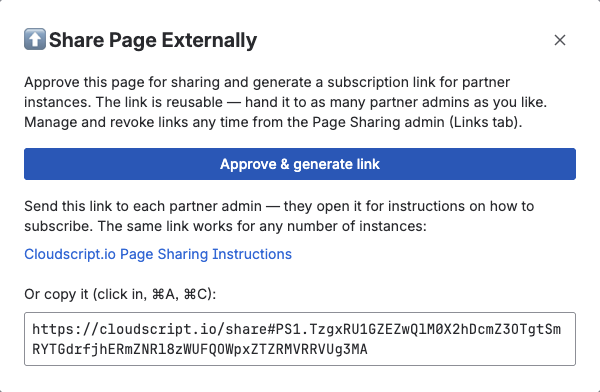
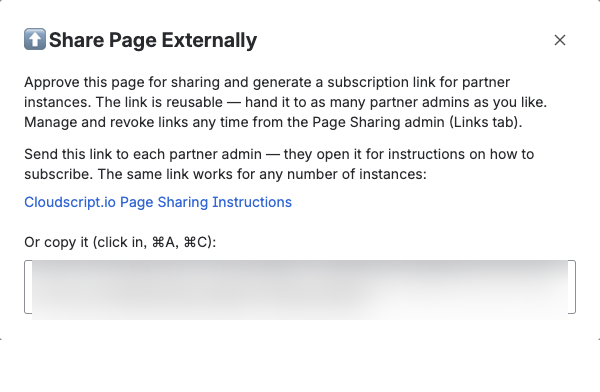
favico

Changed region(s): [[0.03, 0.4898, 0.96, 0.9184], [0.03, 0.3673, 0.96, 0.4592], [0.93, 0.9184, 0.96, 0.949]]

diff --git a/apps/page-sharing/index.html b/apps/page-sharing/index.html
@@ -147,7 +147,10 @@ description: "Share a Confluence page across instances or spaces, read-only. Sub
         border: 1px solid var(--border);
         border-radius: var(--radius);
         background: var(--tint-grey);
+        cursor: zoom-in;
+        transition: box-shadow 0.15s;
       }
+      figure.shot img:hover { box-shadow: 0 4px 18px rgba(19, 36, 59, 0.16); }
       /* graceful placeholder before screenshots are captured (see RUNBOOK.md) */
       figure.shot img:not([src]),
       figure.shot img[src=""] { min-height: 180px; }
@@ -156,6 +159,28 @@ description: "Share a Confluence page across instances or spaces, read-only. Sub
         color: var(--ink-soft);
         margin-top: 0.4rem;
         text-align: center;
+      }
+
+      /* ---- Click-to-zoom lightbox (full-resolution view of a screenshot) ---- */
+      dialog.lightbox {
+        border: 0;
+        padding: 0;
+        background: transparent;
+        max-width: 96vw;
+        max-height: 96vh;
+        overflow: visible;
+      }
+      dialog.lightbox::backdrop { background: rgba(19, 36, 59, 0.86); }
+      dialog.lightbox img {
+        display: block;
+        max-width: 96vw;
+        max-height: 96vh;
+        width: auto;
+        height: auto;
+        border-radius: 8px;
+        background: #fff;
+        box-shadow: 0 12px 48px rgba(0, 0, 0, 0.45);
+        cursor: zoom-out;
       }
 
       /* ---- Glossary aside ---- */
@@ -175,15 +200,19 @@ description: "Share a Confluence page across instances or spaces, read-only. Sub
         border-bottom: 1px solid var(--border);
         padding: 1rem 0;
       }
+      .faq details:first-child { padding-top: 0; }
+      .faq details:last-child { border-bottom: none; padding-bottom: 0; }
+      /* The tag + toggle are absolutely positioned into a fixed right-hand column
+         so the LIMITATION tags line up across every row regardless of question length;
+         padding-right reserves the space so the question text never runs under them. */
       .faq details summary {
         cursor: pointer;
         font-weight: 600;
         color: var(--ink);
         font-size: 1.05rem;
         list-style: none;
-        display: flex;
-        justify-content: space-between;
-        gap: 1rem;
+        position: relative;
+        padding-right: 7.5rem;
       }
       .faq details summary::-webkit-details-marker { display: none; }
       .faq details summary::after {
@@ -191,11 +220,19 @@ description: "Share a Confluence page across instances or spaces, read-only. Sub
         color: var(--brand);
         font-weight: 700;
         font-size: 1.2rem;
+        line-height: 1;
+        position: absolute;
+        right: 0;
+        top: 50%;
+        transform: translateY(-50%);
       }
       .faq details[open] summary::after { content: "–"; }
       .faq details .answer { margin-top: 0.75rem; color: var(--ink-muted); }
       .faq .limit {
-        display: inline-block;
+        position: absolute;
+        right: 1.6rem;
+        top: 50%;
+        transform: translateY(-50%);
         font-size: 0.72rem;
         font-weight: 600;
         text-transform: uppercase;
@@ -203,9 +240,7 @@ description: "Share a Confluence page across instances or spaces, read-only. Sub
         color: var(--brand-dark);
         background: var(--tint-blue);
         border-radius: 6px;
-        padding: 1px 8px;
-        margin-left: 0.5rem;
-        vertical-align: middle;
+        padding: 2px 8px;
       }
 
       @media (max-width: 800px) {
@@ -498,5 +533,25 @@ description: "Share a Confluence page across instances or spaces, read-only. Sub
         </div>
       </div>
     </section>
+
+    <!-- Click any screenshot to view it full-resolution -->
+    <dialog class="lightbox" aria-label="Zoomed screenshot">
+      <img alt="" />
+    </dialog>
+    <script>
+      (function () {
+        var dlg = document.querySelector('.ps-docs dialog.lightbox');
+        if (!dlg || typeof dlg.showModal !== 'function') return; // no-JS / old browser: images stay inline
+        var big = dlg.querySelector('img');
+        document.querySelectorAll('.ps-docs figure.shot img').forEach(function (img) {
+          img.addEventListener('click', function () {
+            big.src = img.currentSrc || img.src;
+            big.alt = img.alt || '';
+            dlg.showModal();
+          });
+        });
+        dlg.addEventListener('click', function () { dlg.close(); }); // click anywhere (incl. image) to close
+      })();
+    </script>
 </div>
 

diff --git a/_layouts/default.html b/_layouts/default.html
@@ -5,7 +5,10 @@
   <meta name="viewport" content="width=device-width, initial-scale=1">
   <title>{% if page.title and page.title != "" %}{{ page.title }} — CloudScript.io{% else %}{{ site.title }}{% endif %}</title>
   {% if page.description %}<meta name="description" content="{{ page.description }}">{% else %}<meta name="description" content="{{ site.description }}">{% endif %}
+  <link rel="icon" href="/favicon.ico" sizes="any">
   <link rel="icon" type="image/svg+xml" href="/assets/img/favicon.svg">
+  <link rel="icon" type="image/png" sizes="48x48" href="/assets/img/favicon-48.png">
+  <link rel="apple-touch-icon" href="/assets/img/apple-touch-icon.png">
   <link rel="stylesheet" href="/assets/css/styles.css">
 </head>
 <body>
@@ -17,10 +20,17 @@
     <a class="brand" href="/" aria-label="CloudScript.io home">
       <!-- Inlined so the two-tone wordmark renders with the self-hosted Inter font -->
       <svg viewBox="0 0 300 72" xmlns="http://www.w3.org/2000/svg" aria-hidden="true">
-        <g transform="translate(6,8)">
-          <rect x="12" y="28" width="40" height="14" rx="7" fill="#2E6FE0"/>
-          <circle cx="26" cy="24" r="12" fill="#2E6FE0"/>
-          <circle cx="43" cy="29" r="9" fill="#2E6FE0"/>
+        <defs>
+          <linearGradient id="hdrCloud" x1="14" y1="14" x2="54" y2="42" gradientUnits="userSpaceOnUse">
+            <stop offset="0" stop-color="#5AA0F0"/>
+            <stop offset="0.55" stop-color="#2E6FE0"/>
+            <stop offset="1" stop-color="#1B4FB0"/>
+          </linearGradient>
+        </defs>
+        <g transform="translate(6,8)" fill="url(#hdrCloud)">
+          <rect x="12" y="28" width="40" height="14" rx="7"/>
+          <circle cx="26" cy="24" r="12"/>
+          <circle cx="43" cy="29" r="9"/>
         </g>
         <text x="80" y="46" font-family="Inter, Segoe UI, Helvetica, Arial, sans-serif" font-weight="700" font-size="30" letter-spacing="-0.5">
           <tspan fill="#13243B">cloud</tspan><tspan fill="#2E6FE0">script</tspan><tspan fill="#5C6B7E" font-size="18" dx="1">.io</tspan>
@@ -55,10 +65,17 @@
     <div class="foot-top">
       <div class="foot-brand">
         <svg viewBox="0 0 300 72" xmlns="http://www.w3.org/2000/svg" aria-label="cloudscript.io">
-          <g transform="translate(6,8)">
-            <rect x="12" y="28" width="40" height="14" rx="7" fill="#5AA0F0"/>
-            <circle cx="26" cy="24" r="12" fill="#5AA0F0"/>
-            <circle cx="43" cy="29" r="9" fill="#5AA0F0"/>
+          <defs>
+            <linearGradient id="ftrCloud" x1="14" y1="14" x2="54" y2="42" gradientUnits="userSpaceOnUse">
+              <stop offset="0" stop-color="#8FC0F7"/>
+              <stop offset="0.55" stop-color="#5AA0F0"/>
+              <stop offset="1" stop-color="#2E6FE0"/>
+            </linearGradient>
+          </defs>
+          <g transform="translate(6,8)" fill="url(#ftrCloud)">
+            <rect x="12" y="28" width="40" height="14" rx="7"/>
+            <circle cx="26" cy="24" r="12"/>
+            <circle cx="43" cy="29" r="9"/>
           </g>
           <text x="80" y="46" font-family="Inter, Segoe UI, Helvetica, Arial, sans-serif" font-weight="700" font-size="30" letter-spacing="-0.5">
             <tspan fill="#FFFFFF">cloud</tspan><tspan fill="#5AA0F0">script</tspan><tspan fill="#93A1B5" font-size="18" dx="1">.io</tspan>

diff --git a/apps/page-sharing/RUNBOOK.md b/apps/page-sharing/RUNBOOK.md
@@ -56,6 +56,15 @@ Pages.) Avoid removing the real consumer from Allowed — that can disrupt the l
 items and lozenges read e.g. "Share Page Externally **(Staging)**" / "Read-only replica **(Staging)**".
 Recapture from a production install for unsuffixed labels.
 
+**Menu-title spacing fix (2026-06-29):** the manifest content-action titles gained a non-breaking space
+after the emoji (`⬆ Share Page Externally` / `⬇ Subscribe to External Page`) to fix the emoji rendering
+too tight against the text in the ••• menu. **`publisher-menu.png` + `subscriber-menu.png` were
+image-patched** to add that gap as an interim (the menu text was shifted ~7px right of the emoji with
+Pillow, since the Playwright browsers were down and the manifest fix wasn't deployed yet). The real fix is
+the manifest nbsp — once it's **deployed** (`forge deploy -e staging` from the `page-sharing/` repo),
+**reshoot both menu shots cleanly** (the patch is then unnecessary; confirm the live menu actually shows
+the gap — if a single nbsp isn't enough, widen it).
+
 ## Captures
 
 Save every screenshot into `cloudscript.io/apps/page-sharing/` (colocated with `index.html`).
@@ -65,7 +74,7 @@ Save every screenshot into `cloudscript.io/apps/page-sharing/` (colocated with `
 | File | Surface | How to reach it |
 |---|---|---|
 | `publisher-menu.png` | The `•••` action menu | Open a shareable page → page header **More actions (•••)** → **Apps** submenu → snapshot full page so the portal menu is visible → screenshot the menu showing **⬆ Share Page Externally**. |
-| `publisher-share.png` | Share dialog with the minted link | Click **⬆ Share Page Externally** → in the Forge modal click **Approve & generate link** → wait for the link/textarea → screenshot the dialog. |
+| `publisher-share.png` | Share dialog with the minted link | Click **⬆ Share Page Externally** → in the Forge modal click **Approve & generate link** → wait for the link/textarea → screenshot the dialog. **REDACT THE SECRET:** the textarea shows the real `https://cloudscript.io/share#PS1.<token>` link — it must NOT be published in the clear. Preferred: before the screenshot, blank/replace the textarea value (and the labelled link's `href`) with a placeholder in the DOM. Fallback: after capture, blur the textarea region — `python3 -c "from PIL import Image,ImageFilter as F; p='…/publisher-share.png'; im=Image.open(p).convert('RGB'); b=(32,312,568,372); im.paste(im.crop(b).filter(F.GaussianBlur(12)),b); im.save(p)"` (coords assume the 600×392 capture). |
 
 ### Admin — `playwright-admin` (producer)
 
